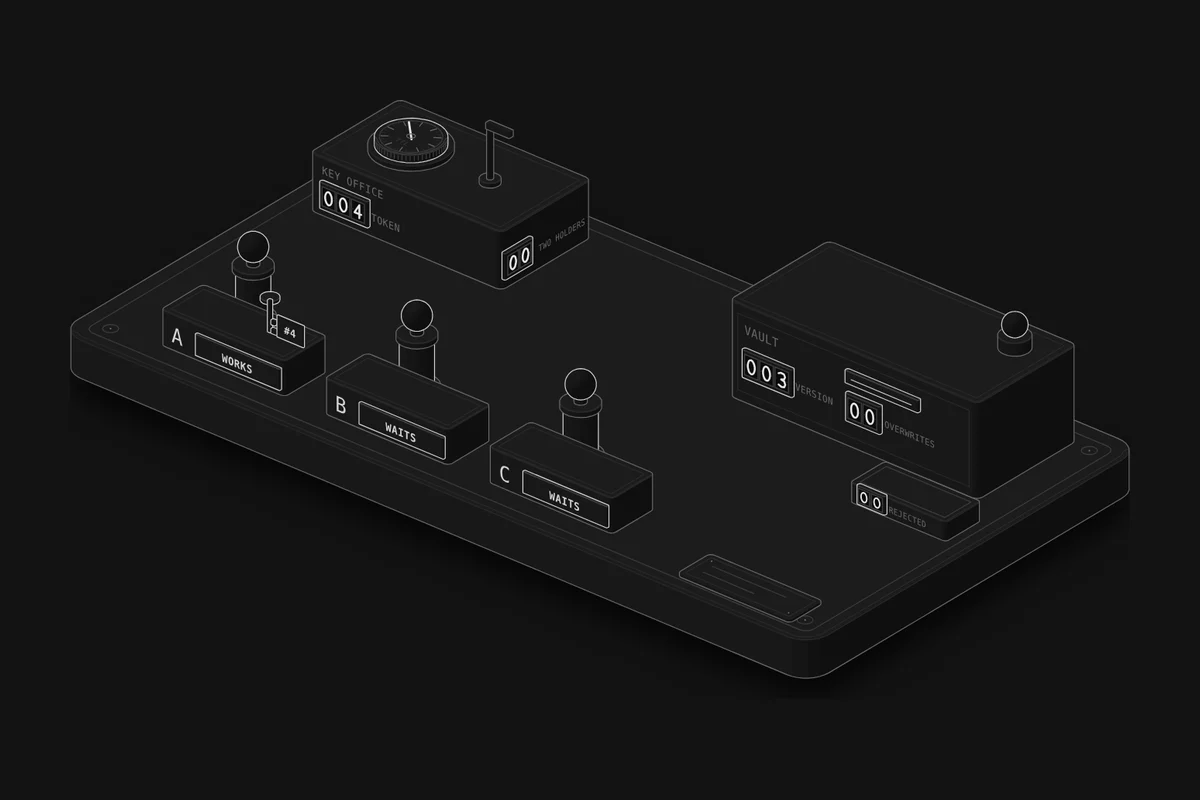
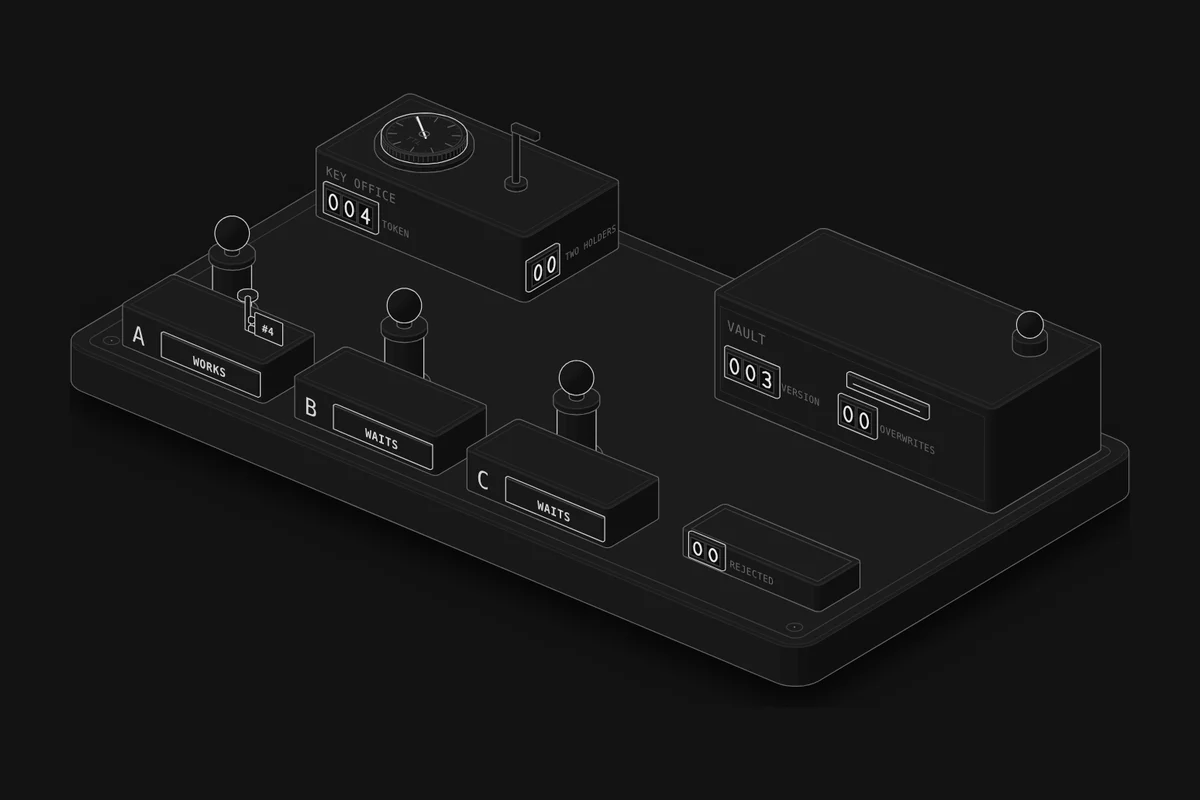
Lesson 62: fill the plate with the machine
Larger key office, vault, desks and workers on a tighter base; the
REJECTED tray moves in front of the vault and the label plate goes, so the
machine fills the plate. Counter captions stay at the standard size.

Claude-Session: https://claude.ai/code/session_01S5z2gCvevbrGU3fXgpGDmP

diff --git a/src/lessons/fencing/figure.ts b/src/lessons/fencing/figure.ts
@@ -6,53 +6,53 @@
 // has seen; slips it refuses drop into the REJECTED tray. Every number is a counter on a real object.
 // Built with the Anatomy kit (MIT, github.com/wheresryan22/anatomy) and the shared workbench parts.
 import * as k from "../../../workbench/kit.mjs";
-import { basePlate, labelPlate, digitCounter, person, keyPart, dial, card, lamp, faceText, variants, litFill } from "../../../workbench/parts.mjs";
+import { basePlate, digitCounter, person, keyPart, dial, card, lamp, faceText, variants, litFill } from "../../../workbench/parts.mjs";
 import { t } from "../../../workbench/i18n.mjs";
 import { shorthand } from "../../lib/draw";
 
 export const WIDTH = 700;
 export const HEIGHT = 470;
 
-const PLATE = { x: -134, y: -100, w: 266, d: 140, r: 8 };
+const PLATE = { x: -132, y: -102, w: 258, d: 142, r: 8 };
 const PLATE_H = 12, FOOT_H = 5;
 
 // The key office (the lock service), back left.
-const KO = { x: -124, y: -92, w: 68, d: 38, r: 2 };
-const KO_H = 18;
+const KO = { x: -124, y: -96, w: 74, d: 40, r: 2 };
+const KO_H = 20;
 const KO_FRONT = KO.y + KO.d;
 const KO_SIDE = KO.x + KO.w;
-const DIAL = { x: -104, y: -73, r: 10, h: 4 };
-const HOOK = [-76, -73];
+const DIAL = { x: -102, y: -76, r: 11.5, h: 4 };
+const HOOK = [-70, -76];
 export const HOOK_KEY = [HOOK[0] + 6.6, HOOK[1], KO_H + 10];
-export const KEY_OUT = [-82, KO_FRONT + 2, KO_H + 2];          // where a key leaves the office
+export const KEY_OUT = [-80, KO_FRONT + 2, KO_H + 2];          // where a key leaves the office
 
 // The vault (the storage), back right.
-const VAULT = { x: 28, y: -92, w: 88, d: 42, r: 2 };
-const VAULT_H = 30;
+const VAULT = { x: 20, y: -96, w: 98, d: 46, r: 2 };
+const VAULT_H = 32;
 const VAULT_FRONT = VAULT.y + VAULT.d;
-const SLOT = { x: 70, w: 26, z: 20.4, h: 3.8 };
+const SLOT = { x: 68, w: 28, z: 21.6, h: 4 };
 export const SLOT_AT = [SLOT.x + SLOT.w / 2, VAULT_FRONT + 1.6, SLOT.z + 1.2];
-const FENCE = { x: 34, y: -88, w: 46, d: 12, r: 1 };
-const FENCE_H = 8;
+const FENCE = { x: 26, y: -90, w: 50, d: 13, r: 1 };
+const FENCE_H = 9;
 const FENCE_FRONT = FENCE.y + FENCE.d;
-const LAMP_AT = [104, -80, VAULT_H];
+const LAMP_AT = [104, -82, VAULT_H];
 
-// The REJECTED tray, beside the vault.
-const TRAY = { x: 90, y: -42, w: 34, d: 15, r: 1.2 };
-const TRAY_H = 6;
+// The REJECTED tray, in front of the vault.
+const TRAY = { x: 68, y: 2, w: 48, d: 18, r: 1.4 };
+const TRAY_H = 8;
 export const TRAY_SPOT = [TRAY.x + TRAY.w / 2, TRAY.y + TRAY.d / 2, TRAY_H - 1];
 
 // The desks at the front: one per worker.
-export const DX = [-86, -28, 30];
-const DESK = { y: 10, w: 44, d: 18, h: 11 };
+export const DX = [-94, -34, 26];
+const DESK = { y: 8, w: 50, d: 22, h: 12 };
 const DESK_FRONT = DESK.y + DESK.d;
 export const DESK_H = DESK.h;
-export const KEY_SPOT = DX.map((x) => [x + 11, DESK.y + 8, DESK.h]);
-export const SLIP_SPOT = DX.map((x) => [x - 2, DESK.y + 9, DESK.h + 0.4]);
-export const PERSON_AT = DX.map((x) => [x - 11, DESK.y - 8, 0]);
+export const KEY_SPOT = DX.map((x) => [x + 12, DESK.y + 10, DESK.h]);
+export const SLIP_SPOT = DX.map((x) => [x - 2, DESK.y + 11, DESK.h + 0.4]);
+export const PERSON_AT = DX.map((x) => [x - 12, DESK.y - 9, 0]);
 
 export const P = k.fitProjection(
-  [...k.boxCorners(PLATE, -PLATE_H - FOOT_H, 0), [HOOK[0], HOOK[1], KO_H + 18], ...k.boxCorners(VAULT, 0, VAULT_H + FENCE_H + 2), ...PERSON_AT.map(([x, y]) => [x, y, 31])],
+  [...k.boxCorners(PLATE, -PLATE_H - FOOT_H, 0), [HOOK[0], HOOK[1], KO_H + 18], ...k.boxCorners(VAULT, 0, VAULT_H + FENCE_H + 2), ...PERSON_AT.map(([x, y]) => [x, y, 34])],
   WIDTH,
   HEIGHT,
   { pad: 16, azimuth: 50 },
@@ -60,23 +60,24 @@ export const P = k.fitProjection(
 
 const { S, L } = shorthand(P);
 const text = (x, y, z, words, size = 3.2, opts = {}) => faceText(P, [x, y, z], words, { size, tone: "mid", ...opts });
-const counter = (o) => digitCounter(P, { w: 4.6, h: 6, gap: 0.6, pad: 1.1, ...o });
+const counter = (o) => digitCounter(P, { w: 5, h: 6.6, gap: 0.6, pad: 1.2, ...o });
+// The captions beside counters, at the standard size of the other lessons.
+const LABEL = 3;
 
 function plate() {
-  return basePlate(P, PLATE, { height: PLATE_H, foot: FOOT_H })
-    + labelPlate(P, { x: 80, y: 20, w: 40, d: 14, r: 1.5 }, [[85, 25, 26], [85, 29, 18]]);
+  return basePlate(P, PLATE, { height: PLATE_H, foot: FOOT_H });
 }
 
 // ---------- the key office ----------
 function keyOffice() {
   const out = [S(k.slabOf(KO, 0, KO_H, P, 3, 0.6), { tone: "mid" })];
   out.push(L(k.planOutline(k.insetPlan(KO, 2.4), KO_H, P), { tone: "faint" }));
-  out.push(text(KO.x + 4.4, KO_FRONT, 13, t("KEY OFFICE", "OFICINA DE LLAVES"), 3.4));
-  out.push(counter({ x: KO.x + 4.4, y: KO_FRONT, z: 3, count: 3, name: "token" }));
-  out.push(text(KO.x + 21.8, KO_FRONT, 4.8, "TOKEN", 3.2));
+  out.push(text(KO.x + 4.6, KO_FRONT, 14, t("KEY OFFICE", "OFICINA DE LLAVES"), 3.8));
+  out.push(counter({ x: KO.x + 4.6, y: KO_FRONT, z: 3.2, count: 3, name: "token" }));
+  out.push(text(KO.x + 24, KO_FRONT, 5.2, "TOKEN", LABEL));
   // on the right face: how often the key went to a new holder while the old one, paused, still thought it held it
-  out.push(counter({ x: KO_SIDE, y: KO_FRONT - 2.6, z: 3.6, count: 2, face: "x", name: "two" }));
-  out.push(faceText(P, [KO_SIDE, KO_FRONT - 15.6, 5.2], t("TWO HOLDERS", "DOS DUEÑOS"), { face: "x", size: 2.8, tone: "mid" }));
+  out.push(counter({ x: KO_SIDE, y: KO_FRONT - 2.8, z: 4, count: 2, face: "x", name: "two" }));
+  out.push(faceText(P, [KO_SIDE, KO_FRONT - 16.6, 5.8], t("TWO HOLDERS", "DOS DUEÑOS"), { face: "x", size: LABEL, tone: "mid" }));
   // the lease timer: the needle shows what's left of the current lease
   out.push(dial(P, { x: DIAL.x, y: DIAL.y, z: KO_H, r: DIAL.r, h: DIAL.h, ticks: 27, every: 3, from: Math.PI * 0.1, span: Math.PI * 1.8, name: "ttl", value: 0, label: "TTL" }));
   // the hook the free key hangs on
@@ -84,7 +85,7 @@ function keyOffice() {
   out.push(S(k.cylinder(hx, hy, 3, KO_H, 1.4, P, 20, 0.3), { tone: "mid" }));
   out.push(S(k.cylinder(hx, hy, 1, KO_H + 1.4, 17, P, 12), { tone: "mid", crease: "none" }));
   out.push(S(k.slabOf({ x: hx - 1, y: hy - 1, w: 8.6, d: 2, r: 0.4 }, KO_H + 17, 1.8, P, 2), { tone: "mid", crease: "none" }));
-  out.push(`<g data-hook-key>${keyPart(P, HOOK_KEY, { scale: 1.6 })}</g>`);
+  out.push(`<g data-hook-key>${keyPart(P, HOOK_KEY, { scale: 1.7 })}</g>`);
   return out.join("");
 }
 
@@ -94,15 +95,15 @@ function vault() {
   out.push(L(k.planOutline(k.insetPlan(VAULT, 2.4), VAULT_H, P), { tone: "faint" }));
   // the door's outline and hinges on the front face
   out.push(L(k.faceRectY(P, VAULT.x + 3, VAULT.x + VAULT.w - 3, VAULT_FRONT, 3, VAULT_H - 3), { tone: "faint" }));
-  out.push(text(VAULT.x + 5.4, VAULT_FRONT, 21.4, t("VAULT", "BÓVEDA"), 3.8));
+  out.push(text(VAULT.x + 5.4, VAULT_FRONT, 22.6, t("VAULT", "BÓVEDA"), 4.2));
   // the slot slips go in by
   out.push(S(k.slabOf({ x: SLOT.x, y: VAULT_FRONT, w: SLOT.w, d: 1.4, r: 0.4 }, SLOT.z, SLOT.h, P, 2, 0.2), { tone: "hi", crease: "lo" }));
   out.push(L(k.segment([SLOT.x + 2.4, VAULT_FRONT + 1.4, SLOT.z + 1.7], [SLOT.x + SLOT.w - 2.4, VAULT_FRONT + 1.4, SLOT.z + 1.7], P), { tone: "hi" }));
   // the record's version, and the writes that overwrote an update they never saw
-  out.push(counter({ x: VAULT.x + 5.4, y: VAULT_FRONT, z: 8.6, count: 3, w: 4.8, h: 6.4, name: "version" }));
-  out.push(text(VAULT.x + 23.4, VAULT_FRONT, 10.6, t("VERSION", "VERSIÓN"), 3));
-  out.push(counter({ x: VAULT.x + 42, y: VAULT_FRONT, z: 8.6, count: 2, w: 4.8, h: 6.4, name: "over" }));
-  out.push(text(VAULT.x + 55, VAULT_FRONT, 10.6, t("OVERWRITES", "SOBRESCRITURAS"), 2.8));
+  out.push(counter({ x: VAULT.x + 5.4, y: VAULT_FRONT, z: 9, count: 3, name: "version" }));
+  out.push(text(VAULT.x + 24.2, VAULT_FRONT, 11, t("VERSION", "VERSIÓN"), LABEL));
+  out.push(counter({ x: VAULT.x + 45, y: VAULT_FRONT, z: 9, count: 2, name: "over" }));
+  out.push(text(VAULT.x + 58.6, VAULT_FRONT, 11, t("OVERWRITES", "SOBRESCRITURAS"), LABEL));
   // the lamp that flashes when a write overwrites
   out.push(`<g data-flash="off">${lamp(P, LAMP_AT, { r: 3.6 })}</g><g data-flash="on" style="display:none">${litFill(lamp(P, LAMP_AT, { r: 3.6, lit: true }))}</g>`);
   return out.join("");
@@ -111,8 +112,8 @@ function vault() {
 function fencePanel() {
   const out = [`<g data-fence style="display:none">`];
   out.push(S(k.slabOf(FENCE, VAULT_H, FENCE_H, P, 3, 0.4), { tone: "mid" }));
-  out.push(counter({ x: FENCE.x + 3.4, y: FENCE_FRONT, z: VAULT_H + 1.4, count: 3, w: 4.2, h: 5.4, name: "seen" }));
-  out.push(text(FENCE.x + 20, FENCE_FRONT, VAULT_H + 3, t("HIGHEST", "MÁXIMO"), 3));
+  out.push(counter({ x: FENCE.x + 3.4, y: FENCE_FRONT, z: VAULT_H + 1.4, count: 3, w: 4.6, h: 5.8, pad: 1, name: "seen" }));
+  out.push(text(FENCE.x + 21.6, FENCE_FRONT, VAULT_H + 3, t("HIGHEST", "MÁXIMO"), LABEL));
   out.push(faceText(P, [FENCE.x + FENCE.w / 2, FENCE.y + FENCE.d / 2 + 1.2, VAULT_H + FENCE_H], "TOKEN", { face: "top", size: 3.4, tone: "mid", anchor: "middle" }));
   out.push(`</g>`);
   return out.join("");
@@ -121,8 +122,8 @@ function fencePanel() {
 function tray() {
   const out = [S(k.slabOf(TRAY, 0, TRAY_H, P, 3, 0.5), { tone: "mid", inner: L(k.planOutline(k.insetPlan(TRAY, 2), TRAY_H, P), { tone: "lo" }) })];
   const front = TRAY.y + TRAY.d;
-  out.push(counter({ x: TRAY.x + 3, y: front, z: 0.9, count: 2, w: 4, h: 4.4, pad: 0.7, name: "rejected" }));
-  out.push(text(TRAY.x + 13.8, front, 1.8, t("REJECTED", "RECHAZADAS"), 2.6));
+  out.push(counter({ x: TRAY.x + 3.4, y: front, z: 1.4, count: 2, w: 4.8, h: 5.4, pad: 1, name: "rejected" }));
+  out.push(text(TRAY.x + 17, front, 2.6, t("REJECTED", "RECHAZADAS"), LABEL));
   return out.join("");
 }
 
@@ -132,22 +133,22 @@ function desk(i) {
   const plan = { x: cx - DESK.w / 2, y: DESK.y, w: DESK.w, d: DESK.d, r: 1.5 };
   const out = [S(k.slabOf(plan, 0, DESK.h, P, 3, 0.5), { tone: "mid" })];
   out.push(L(k.planOutline(k.insetPlan(plan, 2), DESK.h, P), { tone: "faint" }));
-  out.push(faceText(P, [plan.x + 6, DESK_FRONT, 2.4], "ABC"[i], { size: 6.6, tone: "hi", anchor: "middle" }));
+  out.push(faceText(P, [plan.x + 6.6, DESK_FRONT, 2.6], "ABC"[i], { size: 7.2, tone: "hi", anchor: "middle" }));
   // the status plate: what the worker is doing; lit while it's paused
-  const sp = { x: cx - 9, y: DESK_FRONT, w: 30, d: 1, r: 0.3 };
+  const sp = { x: cx - 10, y: DESK_FRONT, w: 34, d: 1, r: 0.3 };
   out.push(`<g class="wb-lit-group" data-status-plate="${i}">`
-    + S(k.slabOf(sp, 2, 6.6, P, 2, 0.2), { tone: "hi", crease: "lo" })
-    + faceText(P, [sp.x + sp.w / 2, sp.y + sp.d, 3.6], t("IDLE", "LIBRE").en, { size: 3.4, tone: "hi", anchor: "middle", attr: `data-status="${i}"` })
+    + S(k.slabOf(sp, 2.2, 7.2, P, 2, 0.2), { tone: "hi", crease: "lo" })
+    + faceText(P, [sp.x + sp.w / 2, sp.y + sp.d, 4], t("IDLE", "LIBRE").en, { size: 3.6, tone: "hi", anchor: "middle", attr: `data-status="${i}"` })
     + `</g>`);
   return out.join("");
 }
 function worker(i) {
   const at = PERSON_AT[i];
   return variants("worker-" + i, {
-    run: person(P, at, { scale: 1.15 }),
-    paused: litFill(person(P, at, { scale: 1.15, lit: true })),
+    run: person(P, at, { scale: 1.25 }),
+    paused: litFill(person(P, at, { scale: 1.25, lit: true })),
     // crashed: the worker is gone, only its spot is left
-    down: S(k.cylinder(at[0], at[1], 5.6 * 1.15, 0, 1.4 * 1.15, P, 24, 0.3), { tone: "mid" }),
+    down: S(k.cylinder(at[0], at[1], 5.6 * 1.25, 0, 1.4 * 1.25, P, 24, 0.3), { tone: "mid" }),
   }, "run");
 }
 
